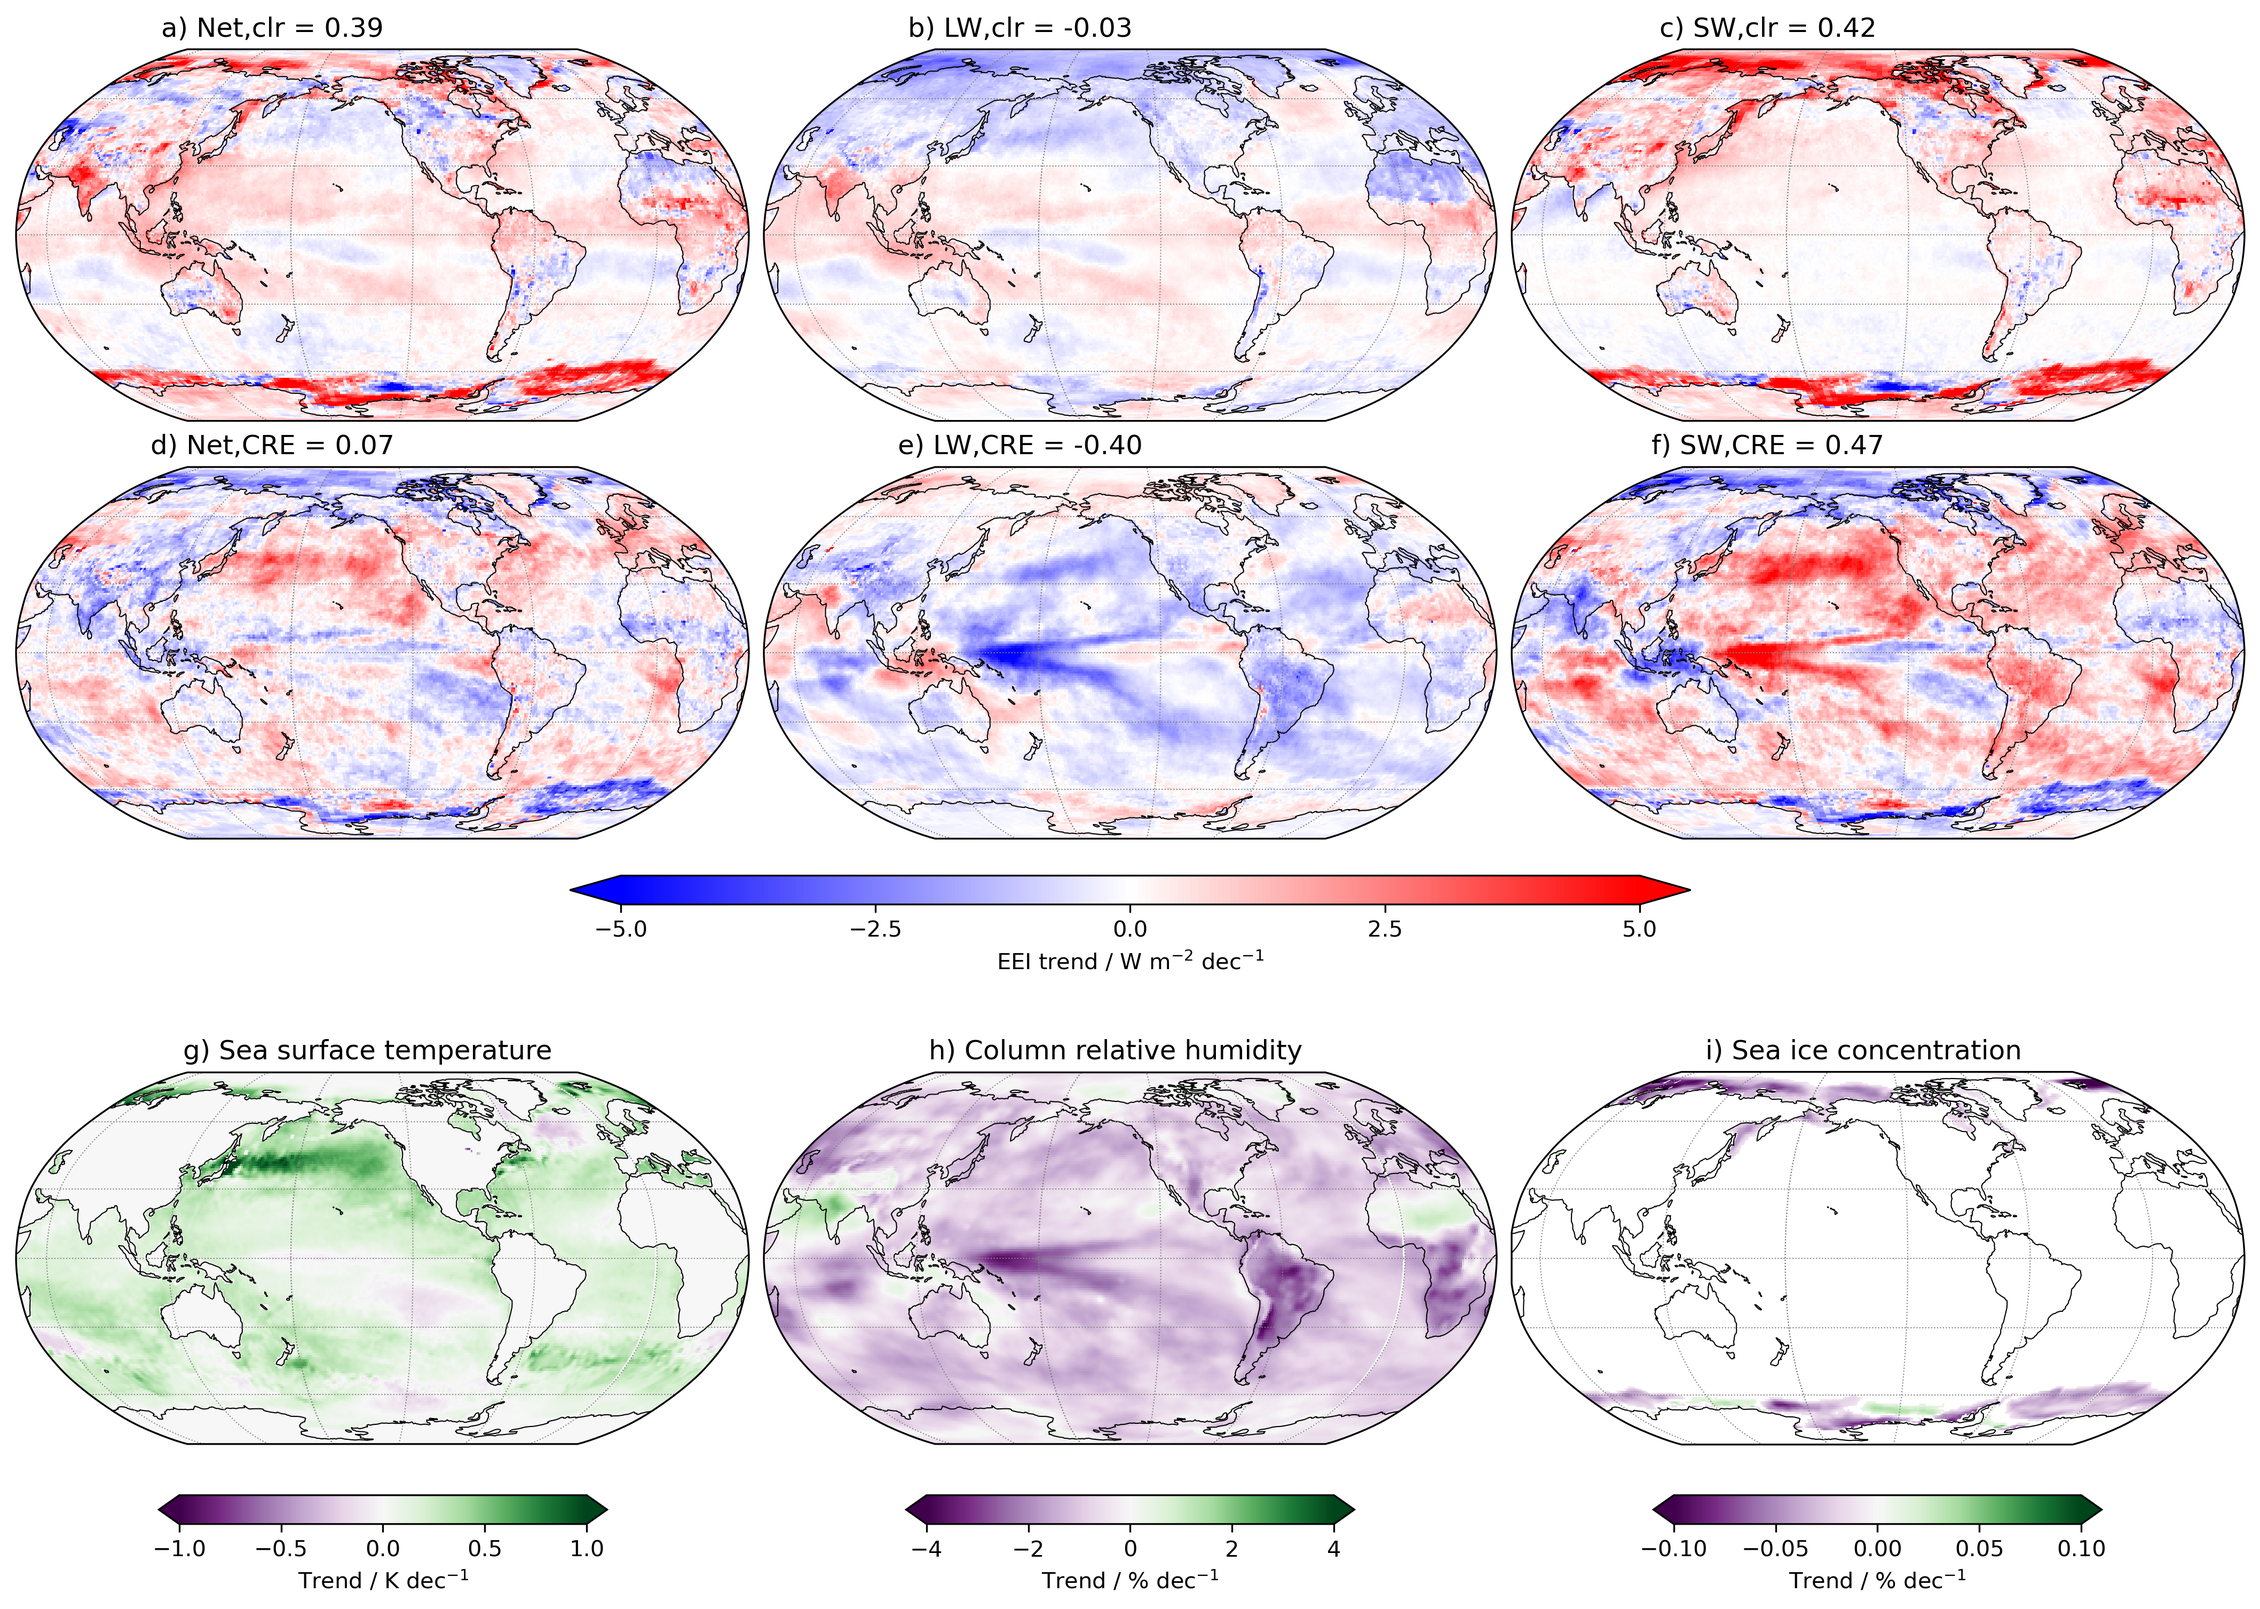
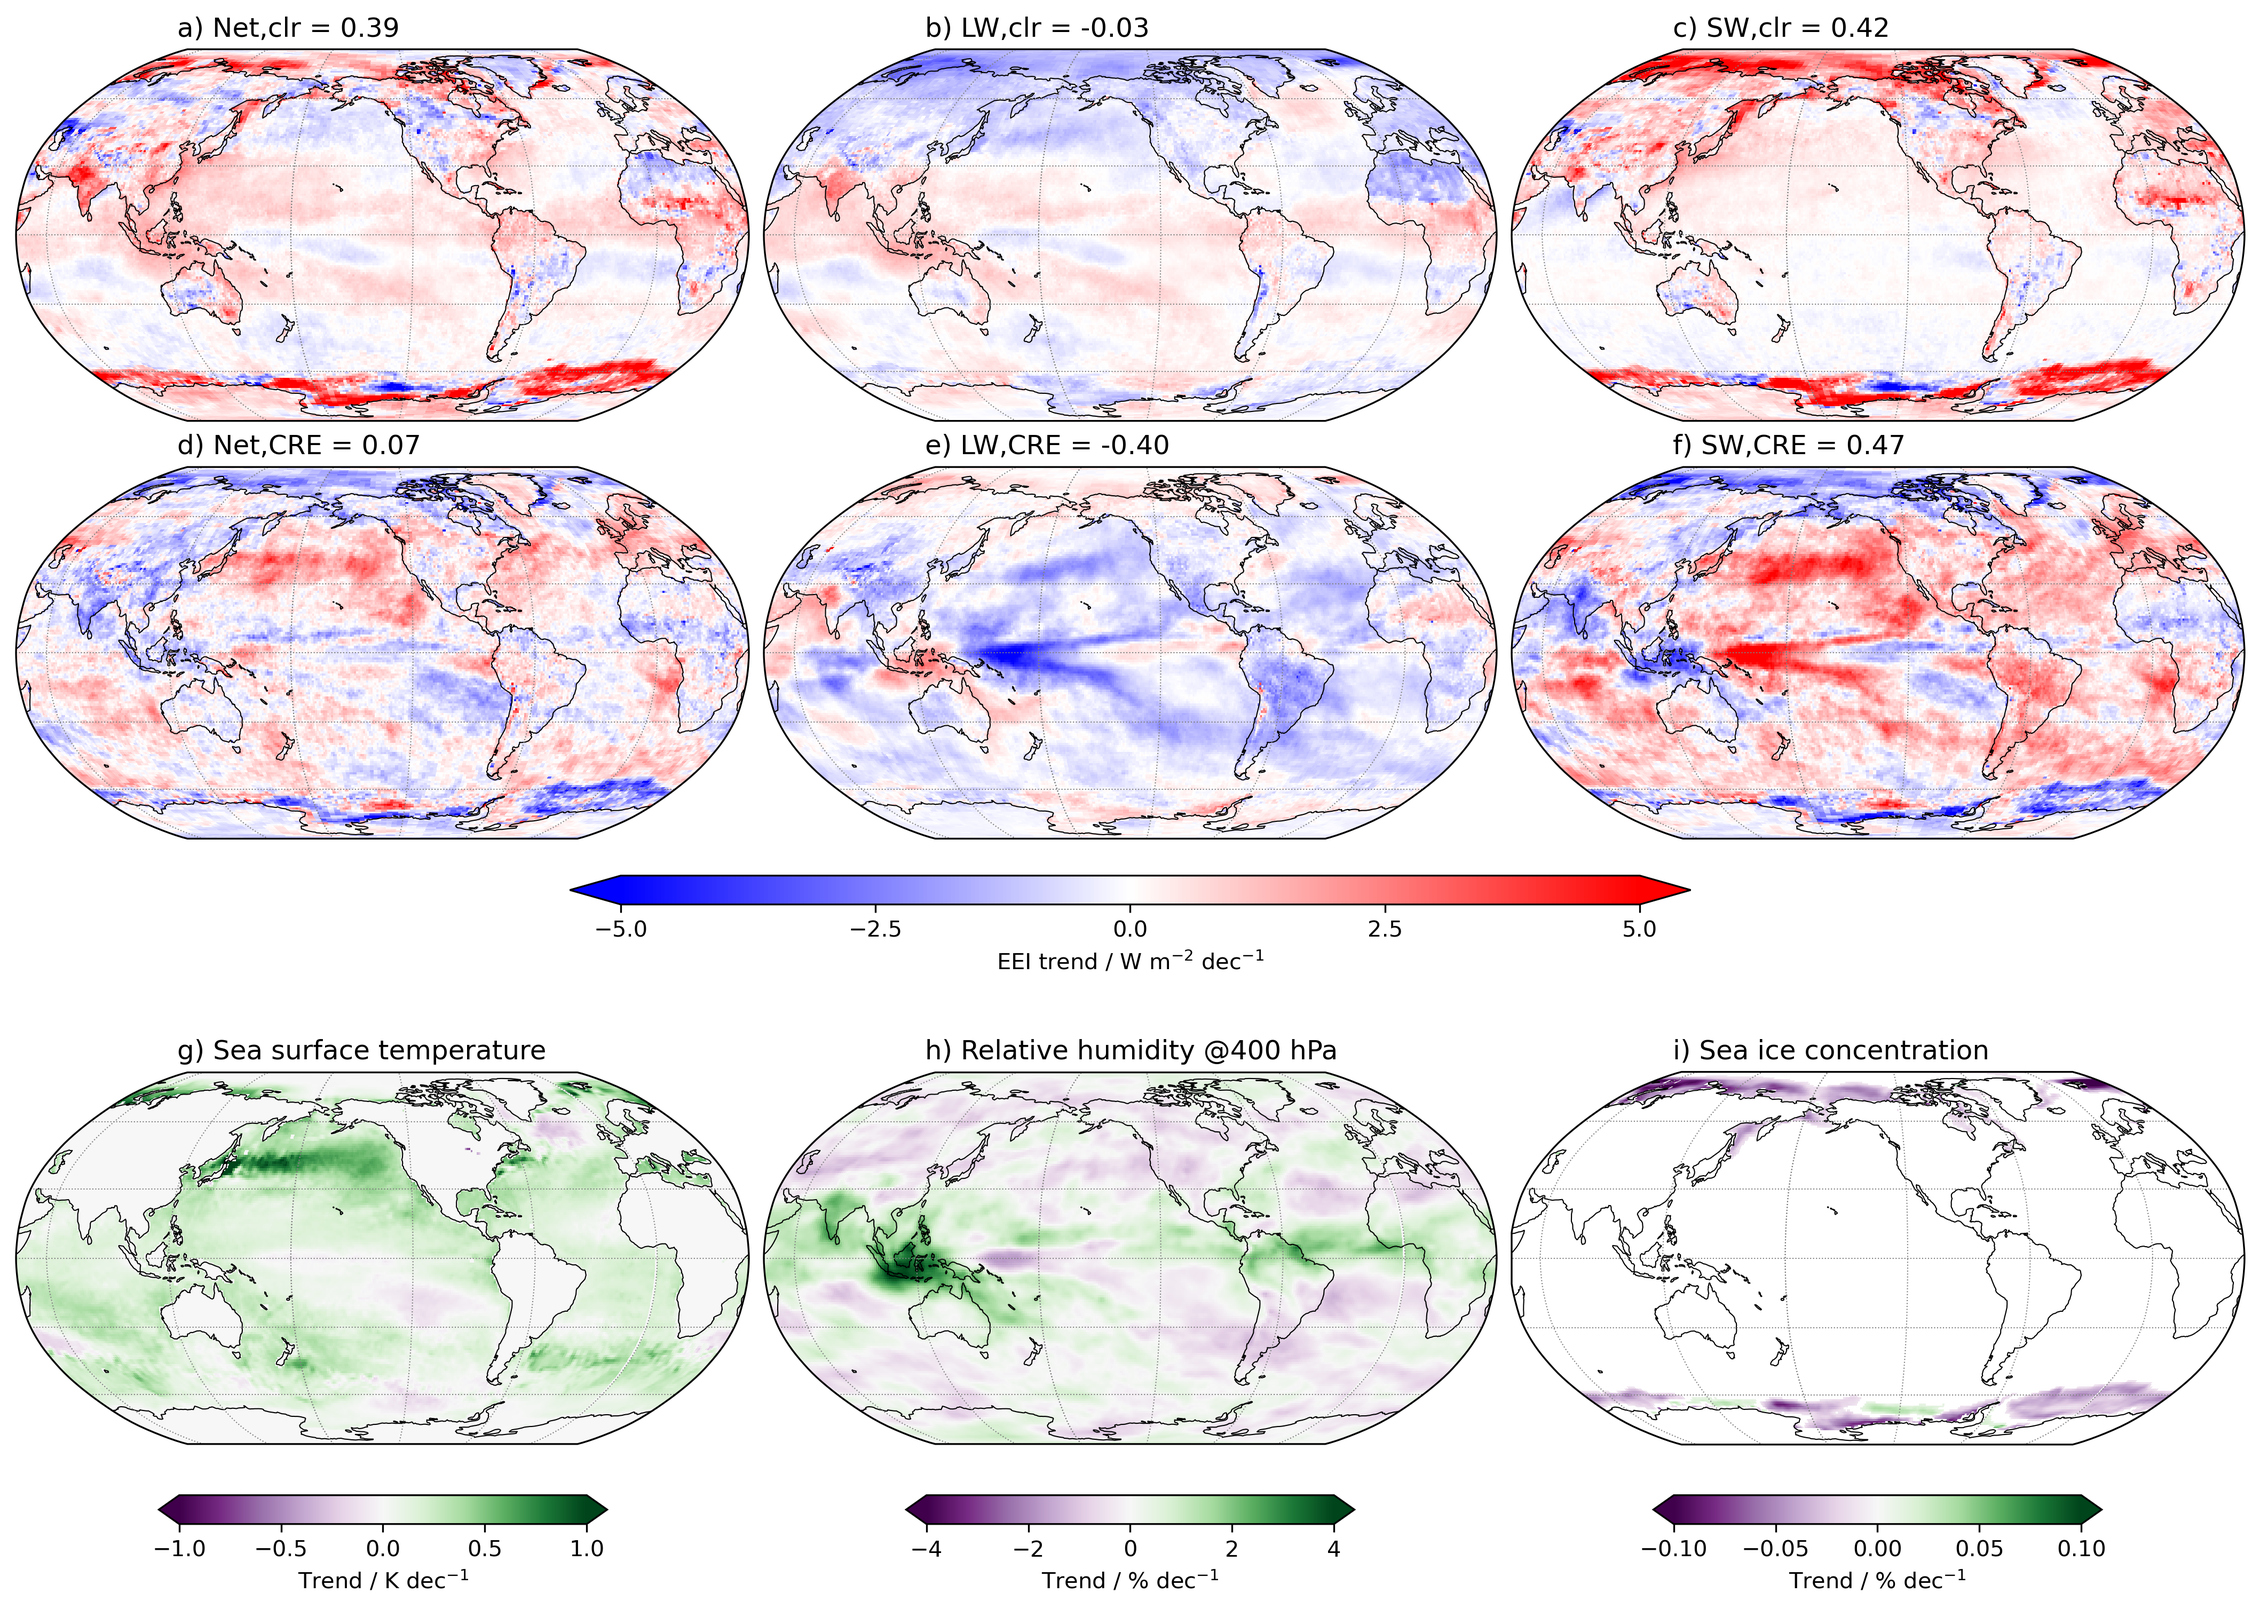
use rh400 in drivers

diff --git a/make_figs/eei_and_drivers.py b/make_figs/eei_and_drivers.py
@@ -15,6 +15,7 @@ nicenames = {
     "sst":"Sea surface temperature",
     "tcw":"Total column water vapor",
     "column_rh":"Column relative humidity",
+    "rh400":"Relative humidity @400 hPa",
     "siconc":"Sea ice concentration",
 }
 
@@ -36,7 +37,7 @@ def eei_and_drivers_maps(eei, driver, savefile):
     
             plot_coasts_grid(ax)
             Nlabel = f"{nicenames[varj]}{nicenames[vari]}"
-            ax.set_title(letter[i,j]+") "+Nlabel+f" = {trend_gm:0.2f}", position=(0.35, 1.0))
+            ax.set_title(letter[i,j]+") "+Nlabel+f" = {trend_gm:0.2f}", position=(0.22, 1.0), loc="left")
     
     plot_colorbar(fig, cf, "EEI trend / W m$^{-2}$ dec$^{-1}$", [0.25, 0.38, 0.5, 0.02])
 
@@ -45,7 +46,7 @@ def eei_and_drivers_maps(eei, driver, savefile):
     # lim = [1, 2, 0.1]
     # scale = [1, 1, 1]
     # unit = ["K", "kg m$^2$", "%"]
-    vars = ["sst","column_rh","siconc"]
+    vars = ["sst","rh400","siconc"]
     lim = [1, 4, 0.1]
     scale = [1, 100, 1]
     unit = ["K", "%", "%"]
@@ -54,7 +55,7 @@ def eei_and_drivers_maps(eei, driver, savefile):
         ax = axes[3,i]
         p = plot_colormesh(ax, driver[vari]*scale[i], lim=lim[i], cmap="PRGn")
         plot_coasts_grid(ax)
-        ax.set_title(letter[i]+") "+nicenames[vari], position=(0.48, 1.0))
+        ax.set_title(letter[i]+") "+nicenames[vari], position=(0.22, 1.0), loc="left")
         plot_colorbar(fig, p, "Trend / "+unit[i]+" dec$^{-1}$", [xbar[i], -0.05, 0.2, 0.02], lim=lim[i])
     
     plt.savefig("figures/"+savefile, dpi=300, facecolor="w", bbox_inches="tight")
